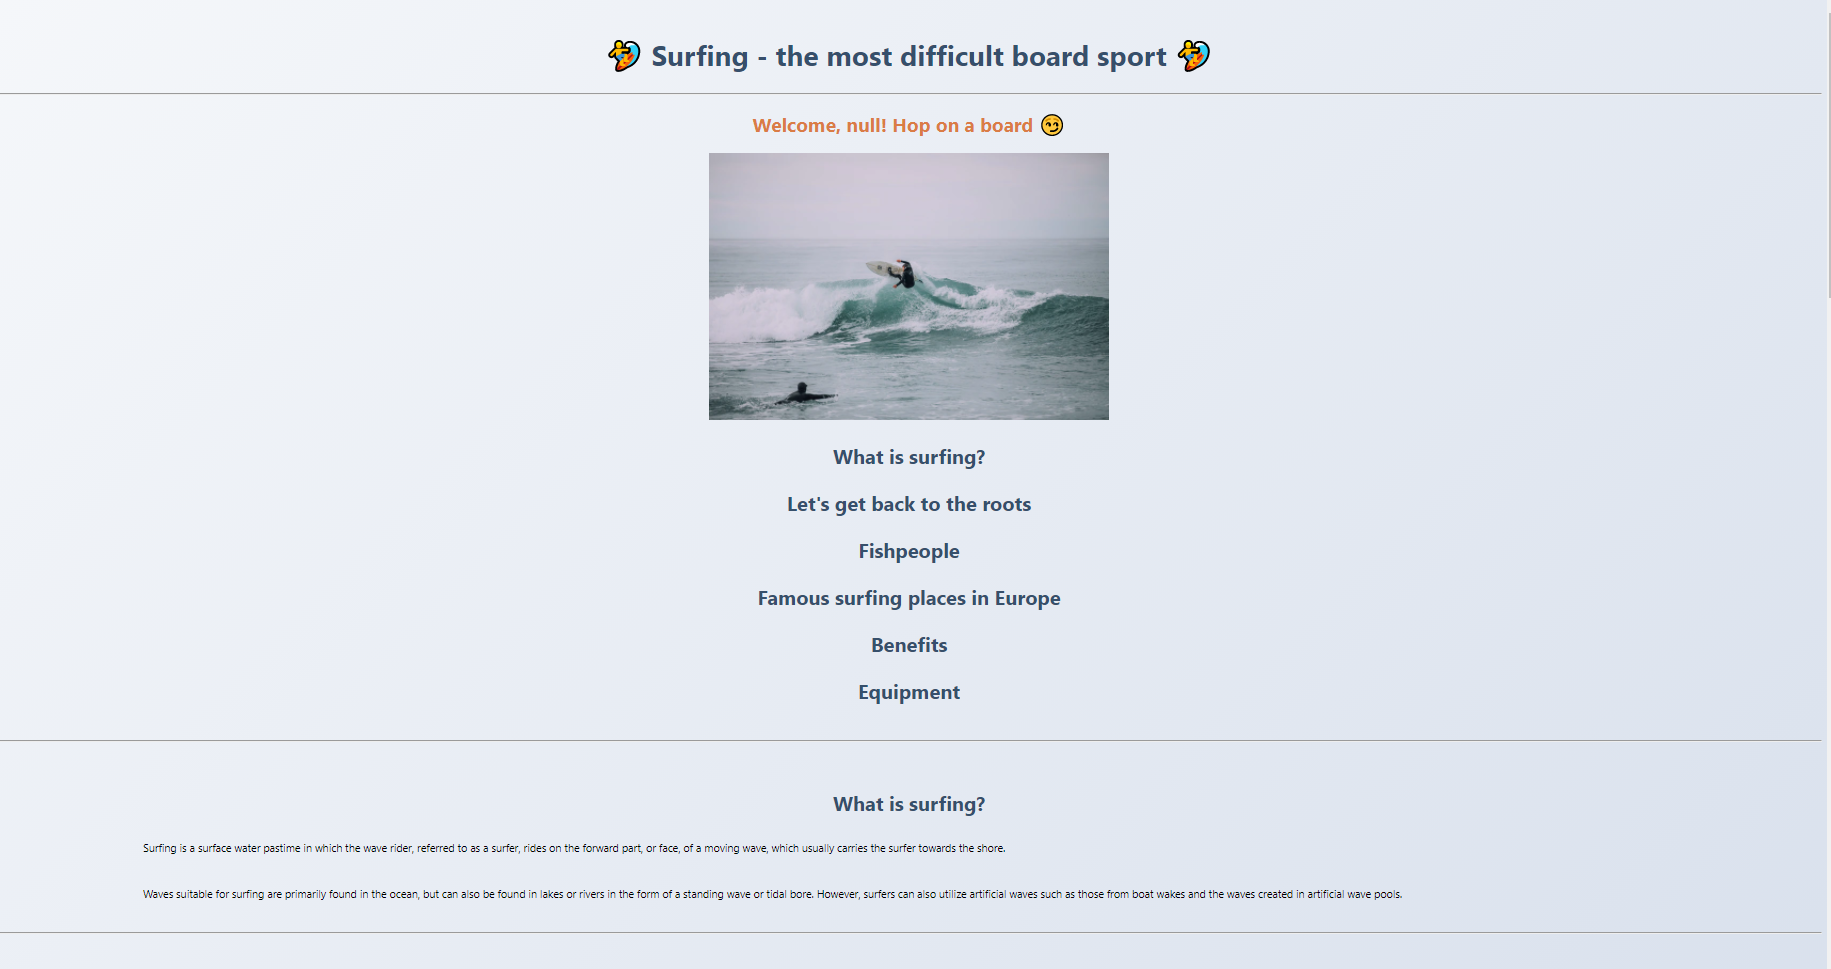
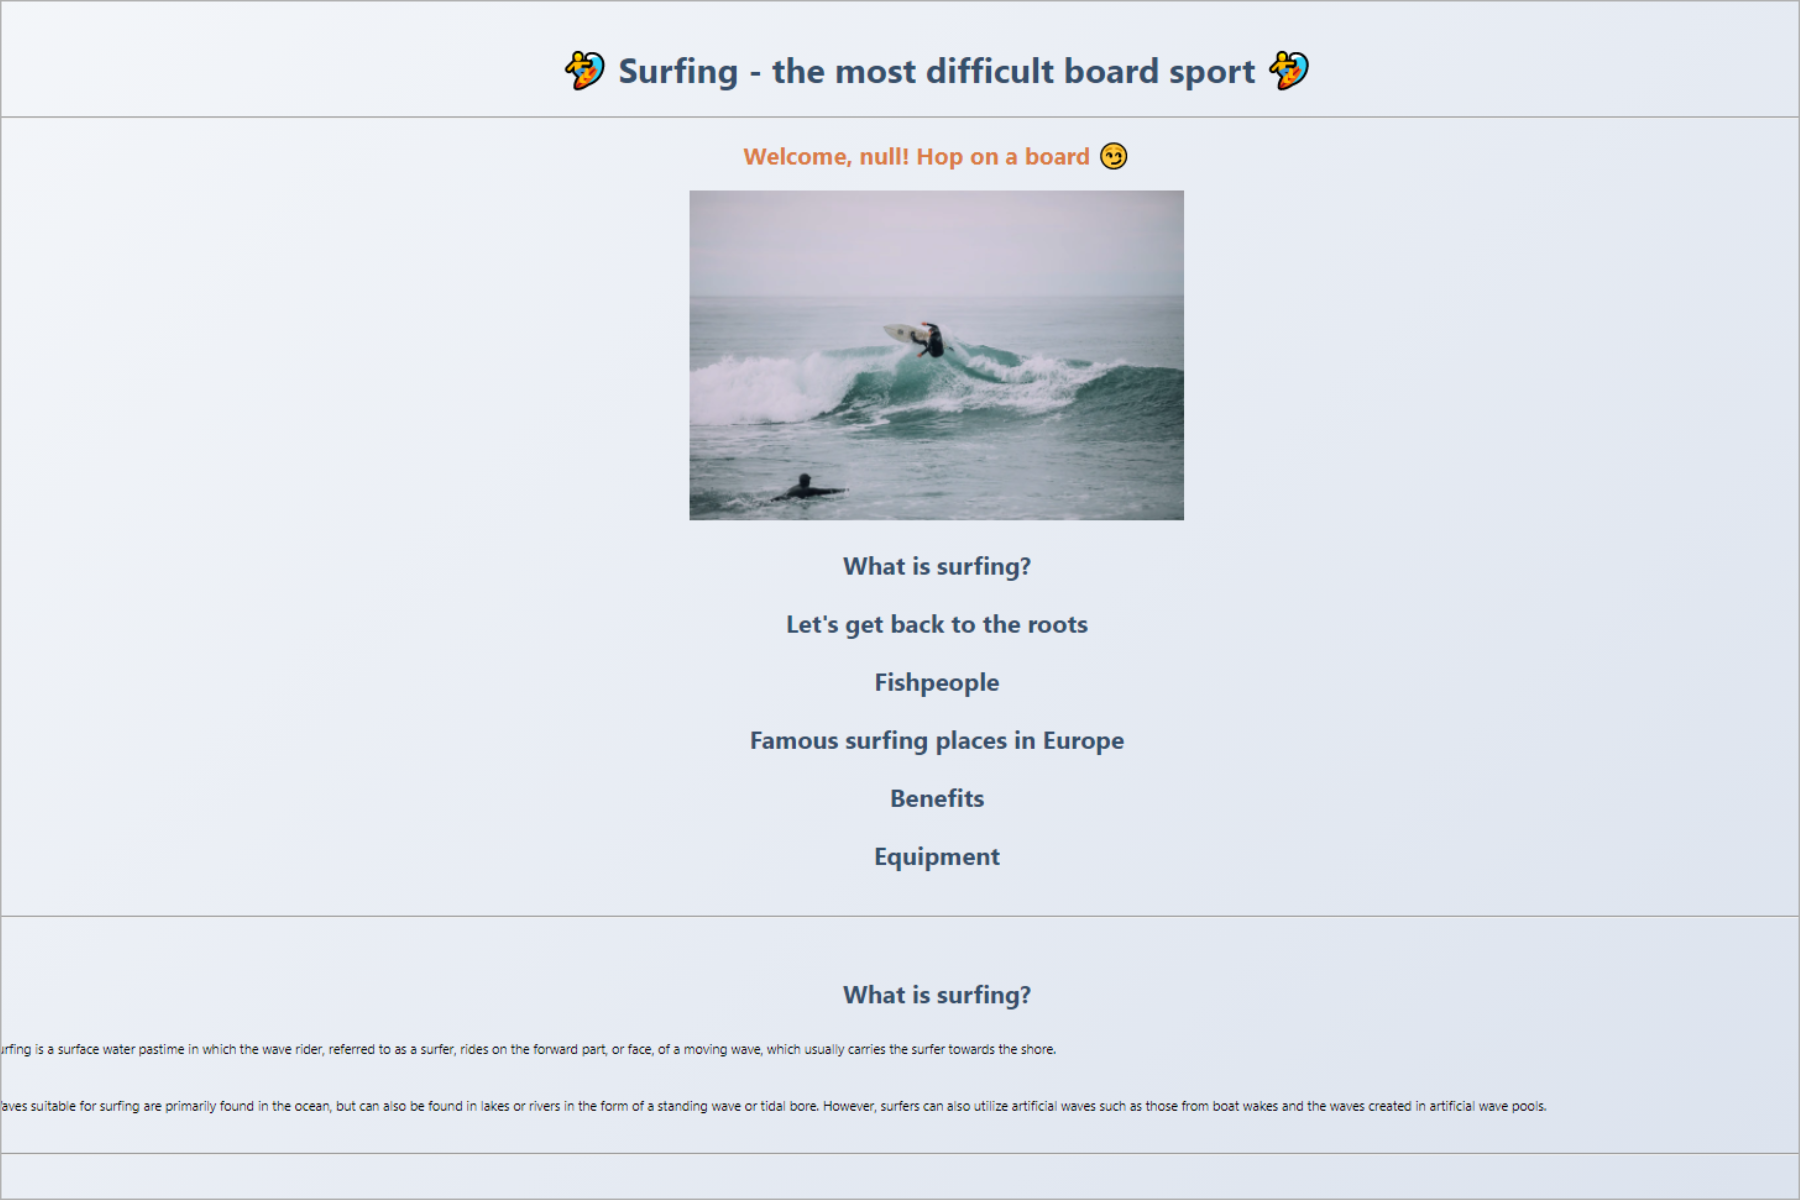
Improved responsiveness

diff --git a/index.html b/index.html
@@ -11,17 +11,18 @@
       integrity="sha384-BmbxuPwQa2lc/FVzBcNJ7UAyJxM6wuqIj61tLrc4wSX0szH/Ev+nYRRuWlolflfl"
       crossorigin="anonymous"
     />
-    <link rel="stylesheet" href="style.css" />
     <script
       src="https://cdn.jsdelivr.net/npm/bootstrap@5.0.0-beta2/dist/js/bootstrap.bundle.min.js"
       integrity="sha384-b5kHyXgcpbZJO/tY9Ul7kGkf1S0CWuKcCD38l8YkeH8z8QjE0GmW1gYU5S9FOnJ0"
       crossorigin="anonymous"
     ></script>
+    <link rel="stylesheet" href="style.css" />
+    <script src="https://kit.fontawesome.com/308f11efd8.js" crossorigin="anonymous"></script>
   </head>
   <body>
-    <nav class="navbar navbar-expand-lg navbar-light bg-light mb-5 p-4">
+    <nav class="navbar navbar-expand-lg navbar-light mb-3 p-4">
       <div class="container-fluid">
-        <img src="images/logo.png" class="img logo float-left mt-3 mb-3 me-3" />
+        <img src="images/logo-removebg.png" class="img img-fluid logo float-left mb-1 " alt="personal logo" />
         <button
           class="navbar-toggler"
           type="button"
@@ -81,8 +82,9 @@
               aria-label="Search"
               />
               <button
-              class="btn btn-outline-success text-light border-0"
+              class="btn border-1"
               type="submit"
+              id="submit"
             >
               Search
             </button>
@@ -104,7 +106,7 @@
         <div
         class="col-md d-flex justify-content-center  rounded-lg shadow-sm"
         >
-        <img src="images/surfing.png" class="img-fluid rounded pt-3 pb-3" />
+        <img src="images/surfing.png" class="img-fluid rounded-3 pt-3 pb-3 project-img d-none d-md-block" alt="Man on a surfing board" />
       </div>
         <div class="col-md">
           <h3>Introduction to coding</h3>
@@ -112,11 +114,10 @@
             Lorem ipsum dolor sit amet, consectetur adipiscing elit, sed do
             eiusmod tempor incididunt ut labore et dolore magna aliqua. Maecenas
             volutpat blandit aliquam etiam erat velit scelerisque in dictum.
-            Vitae nunc sed velit dignissim sodales ut eu.
           </p>
           <a
             href="https://s3.amazonaws.com/shecodesio-production/challenge_submissions/files/000/138/423/original/Final_Project.html?1603987856"
-            class="btn btn-primary ms-4 shadow-sm"
+            class="btn btn-primary ms-4 first-project-link"
             target="blank"
             >Check out my first project</a
             >
@@ -131,22 +132,22 @@
         <p>
           Lorem ipsum dolor sit amet, consectetur adipiscing elit, sed do
           eiusmod tempor incididunt ut labore et dolore magna aliqua. Maecenas
-          volutpat blandit aliquam etiam erat velit scelerisque in dictum. Vitae
-          nunc sed velit dignissim sodales ut eu.
+          volutpat blandit aliquam etiam erat velit scelerisque in dictum. 
         </p>
         <a
           href="https://shecodes-app.netlify.app/"
-          class="btn btn-primary ms-4 shadow-sm"
+          class="btn btn-primary ms-4 second-project-link"
           target="blank"
           >Check out my second project</a
           >
       </div>
       <div
-      class="col-md d-flex justify-content-center rounded-lg shadow-sm"
+      class="col-md d-flex justify-content-center shadow-sm "
       >
         <img
           src="images/weatherapp.png"
-          class="img-fluid rounded-lg pt-3 pb-3"
+          class="img-fluid pt-3 pb-3 project-img d-none d-md-block"
+          alt="My first weather application - screenshot"
         />
       </div>
     </div>
@@ -157,7 +158,9 @@
         <div
           class="col-md d-flex justify-content-center rounded-lg shadow-sm"
         >
-          <img src="images/weatherapp-react.PNG" class="img-fluid rounded pt-3 pb-3" />
+          <img src="images/weatherapp-react.PNG" class="img-fluid pt-3 pb-3 project-img d-none d-md-block" 
+          alt="My first weather react application - screenshot"
+          />
         </div>
         <div class="col-md me-4">
           <h3>SheCodes React</h3>
@@ -165,11 +168,10 @@
             Lorem ipsum dolor sit amet, consectetur adipiscing elit, sed do
             eiusmod tempor incididunt ut labore et dolore magna aliqua. Maecenas
             volutpat blandit aliquam etiam erat velit scelerisque in dictum.
-            Vitae nunc sed velit dignissim sodales ut eu.
           </p>
           <a
           href="https://skiesguys.netlify.app"
-          class="btn btn-primary ms-4 shadow-sm"
+          class="btn btn-primary ms-4 third-project-link"
           target="blank"
           >Check out my third project</a
           >
@@ -179,4 +181,11 @@
     </div>
   </div>
   </body>
+  <hr>
+  <footer class="mt-5 mb-5 bg-light">
+    <div class="container d-flex justify-content-center">
+      <a href="https://www.linkedin.com/in/sylwiaaderek/" target="blank"><i class="fab fa-linkedin fs-3 text-dark me-3" ></i></a>
+   <a href="https://github.com/syl-ade" target="blank"> <i class="fab fa-github text-dark fs-3"></i></a>
+</div>
+  </footer>
   </html>

diff --git a/style.css b/style.css
@@ -2,33 +2,35 @@
   --primary-color: #6c63ff;
   --secondary-color: #f5f2fe;
   --box-shadow: 0 5px 10px rgba(0, 0, 0, 0.3);
-  --light-primary: #9b98fc3e;
 }
 
 h1,
 h2,
 h3 {
   text-align: center;
-  margin: 0;
 }
 
 h1 {
   font-size: 96px;
+  margin-bottom: 20px;
 }
 
 h2 {
   font-size: 48px;
+
 }
 
 h3 {
   font-size: 24px;
   opacity: 0.7;
+  margin-bottom: 30px;
+
 }
 
 p {
   padding: 20px;
   border-radius: 4px;
-  font-size: 18px;
+  font-size: 15px;
   line-height: 1.5;
   text-align: center;
   text-align: justify;
@@ -37,19 +39,28 @@ img {
   max-width: 400px;
   max-height: 300px;
 }
-.container {
-  max-width: 1000px;
+ .project-img  {
+   background: var(--secondary-color);
+  box-shadow: var(--box-shadow);
+  
 }
-.btn {
-  background: var(--primary-color);
+a:focus,a:active {
+  outline: none !important;
+}
+.container {
+  max-width: 800px;
+  
+}
+.content {
+  max-width: 1000px;
+  
+  
 }
 
-.bg-light-primary {
-  background: var(--light-primary);
+.logo{
+  max-width: 300px;
 }
-.logo {
-  max-width: 150px;
-}
+
 
 .navigation-links {
   display: flex;
@@ -60,7 +71,7 @@ img {
 .navigation-links a {
   margin: 20px;
   border-radius: 4px;
-  padding: 20px 15px;
+  padding: 15px 15px;
   text-decoration: none;
   text-transform: capitalize;
 }
@@ -70,10 +81,19 @@ img {
   box-shadow: var(--box-shadow);
   color: white;
 }
+.contact-link:hover{
+  background: #f5f2fe;
+  color: var(--primary-color);
+}
 
 .about-link {
   color: var(--primary-color);
+  box-shadow: var(--box-shadow);
   border: 1px solid var(--primary-color);
+}
+.about-link:hover{
+  background: var(--primary-color);
+  color: white;
 }
 
 .homepage-link {
@@ -82,14 +102,6 @@ img {
   display: block;
 }
 
-.about-paragraphs {
-  display: flex;
-  margin: 30px 0;
-}
-
-.about-paragraphs p {
-  margin: 10px;
-}
 
 .email-link {
   display: flex;
@@ -102,3 +114,75 @@ img {
 .email-link:hover {
   text-decoration: underline;
 }
+
+
+.first-project-link,
+.second-project-link,
+.third-project-link {
+  background: var(--primary-color);
+  border:none;
+  box-shadow: var(--box-shadow);
+  
+  
+}
+
+.first-project-link:hover{
+  background: #f5f2fe;
+  color: var(--primary-color);
+}
+
+.second-project-link:hover{
+  background: #f5f2fe;
+  color: var(--primary-color);
+}
+
+.third-project-link:hover{
+  background: #f5f2fe;
+  color: var(--primary-color);
+}
+#submit{
+  background: var(--primary-color);
+  color: #f5f2fe;
+  box-shadow: var(--box-shadow);
+  
+  
+}
+#submit:hover{
+  background: #f5f2fe;
+  color: var(--primary-color);
+  
+}
+.form-control{
+  min-width: 100px;
+}
+
+@media (max-width: 576px){
+  h1 {
+    font-size: 45px;
+  }
+    h2{
+    font-size: 30px;
+
+    }
+    h3{
+    font-size: 17px;
+    }
+    .contact-link{
+      text-align: center;
+      font-size: 15px;
+    }
+    .about-link{
+      text-align: center;
+      font-size: 15px;
+    }
+     .email-link{
+      font-size: 20px;
+    }
+    .nav-link{
+      font-size: 15px;
+    }
+    .nav-link-dropdown{
+      font-size: 15px;
+    }
+    
+    }

diff --git a/about.html b/about.html
@@ -10,18 +10,20 @@
       integrity="sha384-BmbxuPwQa2lc/FVzBcNJ7UAyJxM6wuqIj61tLrc4wSX0szH/Ev+nYRRuWlolflfl"
       crossorigin="anonymous"
     />
-    <link rel="stylesheet" href="style.css" />
     <script
-      src="https://cdn.jsdelivr.net/npm/bootstrap@5.0.0-beta2/dist/js/bootstrap.bundle.min.js"
+    src="https://cdn.jsdelivr.net/npm/bootstrap@5.0.0-beta2/dist/js/bootstrap.bundle.min.js"
       integrity="sha384-b5kHyXgcpbZJO/tY9Ul7kGkf1S0CWuKcCD38l8YkeH8z8QjE0GmW1gYU5S9FOnJ0"
       crossorigin="anonymous"
     ></script>
+    <script src="https://kit.fontawesome.com/308f11efd8.js" crossorigin="anonymous"></script>
+
+    <link rel="stylesheet" href="style.css" />
     <title>About Sylwia</title>
   </head>
   <body>
-    <nav class="navbar navbar-expand-lg navbar-light bg-light mb-5 p-4">
+    <nav class="navbar navbar-expand-lg navbar-light mb-3 p-4">
       <div class="container-fluid">
-        <img src="images/logo.png" class="img logo float-left mt-3 mb-3 me-3" />
+        <img src="images/logo-removebg.png" class="img img-fluid logo float-left mb-1 " alt="personal logo"/>
         <button
           class="navbar-toggler"
           type="button"
@@ -81,8 +83,9 @@
               aria-label="Search"
             />
             <button
-              class="btn btn-outline-success text-light border-0"
+              class="btn"
               type="submit"
+              id="submit"
             >
               Search
             </button>
@@ -90,9 +93,9 @@
         </div>
       </div>
     </nav>
+    <div class="container">
     <h1>About me</h1>
     <h3>Front-end developer from Warsaw, Poland</h3>
-    <div class="about-paragraphs">
       <p>
         Lorem ipsum dolor sit amet, consectetur adipisicing elit. Numquam
         aperiam provident tempora? Cumque adipisci, non dolorem quia, odit qui
@@ -119,10 +122,17 @@
       </p>
     </div>
     <div id="contact">
-      <h2>📮 Contact me</h2>
+      <h2><i class="far fa-envelope"></i> Contact me</h2>
       <a href="mailto:[sylwiaaderek@gmail.com]" class="email-link">
         sylwiaaderek@gmail.com
       </a>
     </div>
   </body>
+  <hr>
+  <footer class="mt-5 mb-5 bg-light ">
+    <div class="container d-flex justify-content-center">
+      <a href="https://www.linkedin.com/in/sylwiaaderek/" target="blank"><i class="fab fa-linkedin fs-3 text-dark me-3" ></i></a>
+   <a href="https://github.com/syl-ade" target="blank"> <i class="fab fa-github text-dark fs-3"></i></a>
+</div>
+  </footer>
 </html>
